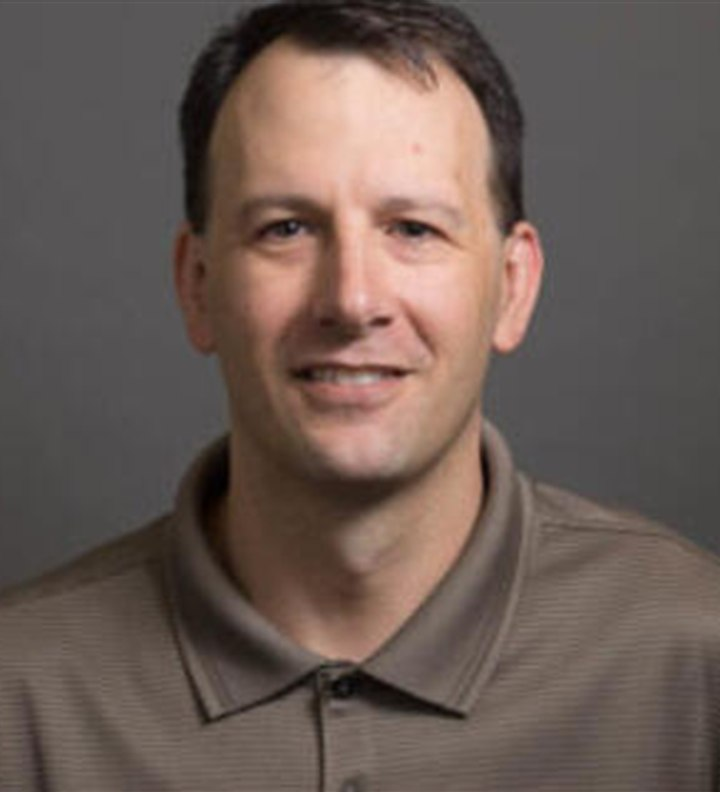
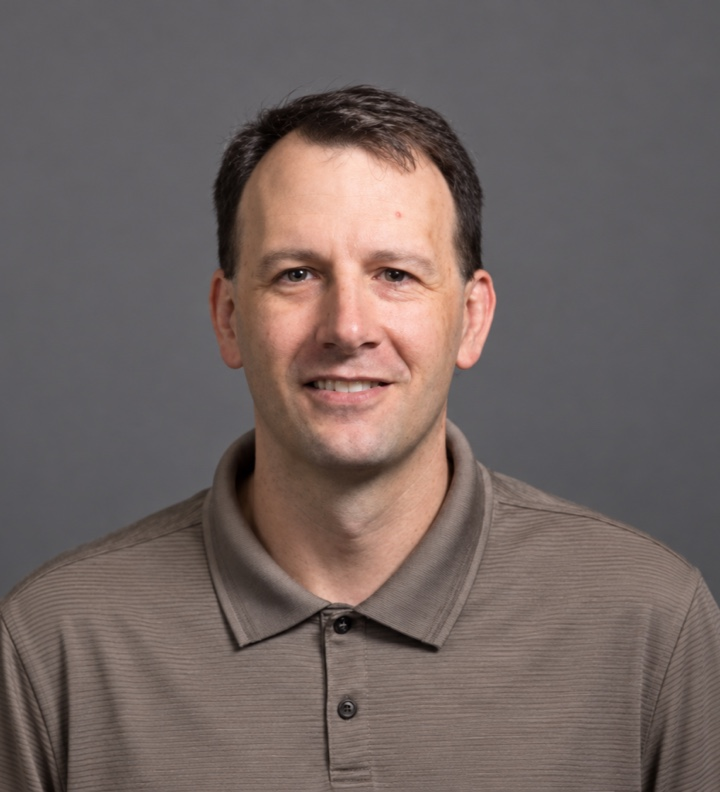
Update news section

diff --git a/assets/js/data.js b/assets/js/data.js
@@ -27,7 +27,7 @@ window.siteData = {
       role: "Faculty",
       title: "Associate Professor",
       interests: "Critical infrastructure modeling, GeoAI, risk, resilience and remote sensing",
-      image: "assets/images/people/oughton.jpg",
+      image: "assets/images/people/oughton-reframed-v3.jpg",
       url: "https://science.gmu.edu/directory/edward-oughton"
     },
     {
@@ -98,6 +98,13 @@ window.siteData = {
 
   publications: [
     {
+      year: "2026",
+      type: "Journal",
+      title: "Global vulnerability assessment of mobile telecommunications infrastructure to climate hazards using crowdsourced open data",
+      citation: "Oughton, E. J., Russell, T., Oh, J., Ballan, S., & Hall, J. W. Nature Communications.",
+      url: "https://doi.org/10.1038/s41467-026-76197-w"
+    },
+    {
       year: "2025",
       type: "Journal",
       title: "Emissions assessment of Low Earth Orbit (LEO) broadband megaconstellations: Starlink, OneWeb and Kuiper",
@@ -149,6 +156,38 @@ window.siteData = {
   ],
 
   news: [
+    {
+      type: "Media",
+      date: "September 2026",
+      title: "CNN features our research on solar storms and U.S. power grid risk",
+      summary: "CNN's interactive article covers findings from our new AGU Advances paper and includes a data tool that helps readers explore their potential exposure to power grid disruption from a major solar storm.",
+      url: "https://www.cnn.com/interactive/2026/07/weather/solar-storms-power-grid/",
+      linkLabel: "Explore the CNN feature"
+    },
+    {
+      type: "Media",
+      date: "September 2026",
+      title: "AGU Eos highlights our research on the economic costs of solar storms",
+      summary: "The Eos research spotlight explores findings from our recent AGU Advances paper, including the potential power outages and economic losses caused by severe geomagnetic storms in the United States.",
+      url: "https://eos.org/research-spotlights/the-economic-costs-of-solar-storms",
+      linkLabel: "Read spotlight"
+    },
+    {
+      type: "Publication",
+      date: "September 2026",
+      title: "New AGU Advances publication on the economic risks of extreme space weather",
+      summary: "Major Space Weather Risks Identified via Coupled Physics–Engineering–Economic Modeling estimates that a 250-year geomagnetic storm could cause $1.81 billion in daily U.S. economic losses.",
+      url: "https://doi.org/10.1029/2026AV002367",
+      linkLabel: "Read paper"
+    },
+    {
+      type: "Grant",
+      date: "August 2026",
+      title: "New $500K NSF award for AI-enabled space weather risk research",
+      summary: "This new project will develop open-source tools that translate uncertainty in space weather forecasts into actionable risk information for satellite operations, helping strengthen the resilience of space infrastructure.",
+      url: "https://www.nsf.gov/awardsearch/show-award?AWD_ID=2629145",
+      linkLabel: "See grant details"
+    },
     {
       type: "Grant",
       date: "August 2026",

diff --git a/index.html b/index.html
@@ -34,6 +34,7 @@
       <nav id="site-navigation" class="site-nav" aria-label="Primary navigation">
         <a href="#research">Research</a>
         <a href="#collaborations">Collaborations</a>
+        <a href="#news">Latest news</a>
         <a href="#people">People</a>
         <a href="#publications">Publications</a>
         <a href="join.html">Join Us</a>
@@ -97,6 +98,19 @@
       </div>
     </section>
 
+    <section id="news" class="section">
+      <div class="container">
+        <div class="section-heading">
+          <div>
+            <div class="section-kicker">News and achievements</div>
+            <h2>Latest from the group</h2>
+          </div>
+        </div>
+        <div class="news-grid" id="news-grid"></div>
+        <nav class="news-pagination" id="news-pagination" aria-label="News pages"></nav>
+      </div>
+    </section>
+
     <section id="people" class="section">
       <div class="container">
         <div class="section-heading">
@@ -123,18 +137,6 @@
       </div>
     </section>
 
-    <section id="news" class="section">
-      <div class="container">
-        <div class="section-heading">
-          <div>
-            <div class="section-kicker">News and achievements</div>
-            <h2>Latest from the group</h2>
-          </div>
-        </div>
-        <div class="news-grid" id="news-grid"></div>
-      </div>
-    </section>
-
     <section id="opportunities" class="section opportunity-section">
       <div class="container opportunity-card">
         <div>
@@ -158,7 +160,7 @@
         </div>
         <div class="contact-links">
           <span>eoughton [ at ] gmu [ dot ] edu</span>
-          <a href="https://github.com/geoai-earth-observation-research-group">GitHub organization</a>
+          <a href="https://github.com/GeoAI-and-Earth-Observation">GitHub organization</a>
           <a href="https://science.gmu.edu/academics/departments-units/geography-geoinformation-science">GMU GGS website</a>
           <a href="https://www.linkedin.com/in/edwardoughton">LinkedIn</a>
         </div>
@@ -169,7 +171,7 @@
   <footer class="site-footer">
     <div class="container footer-wrap">
       <p>© <span id="current-year"></span> GeoAI & Earth Observation Research Group, George Mason University.</p>
-      <p>This draft site is independently maintained by the research group.</p>
+      <p>This site is independently maintained by the research group.</p>
     </div>
   </footer>
 </body>

diff --git a/assets/js/main.js b/assets/js/main.js
@@ -64,8 +64,15 @@
     `).join("");
   };
 
-  const renderNews = () => {
-    document.querySelector("#news-grid").innerHTML = data.news.map(item => `
+  const NEWS_PAGE_SIZE = 6;
+
+  const renderNews = (requestedPage = 1) => {
+    const pageCount = Math.ceil(data.news.length / NEWS_PAGE_SIZE);
+    const page = Math.min(Math.max(requestedPage, 1), pageCount);
+    const startIndex = (page - 1) * NEWS_PAGE_SIZE;
+    const visibleNews = data.news.slice(startIndex, startIndex + NEWS_PAGE_SIZE);
+
+    document.querySelector("#news-grid").innerHTML = visibleNews.map(item => `
       <article class="news-card">
         <div class="news-meta">
           <span class="news-type">${item.type}</span>
@@ -77,6 +84,23 @@
         <a class="text-link" href="${item.url}">${item.linkLabel || "Read update"} <span aria-hidden="true">→</span></a>
       </article>
     `).join("");
+
+    const pagination = document.querySelector("#news-pagination");
+    pagination.hidden = pageCount <= 1;
+    pagination.innerHTML = Array.from({ length: pageCount }, (_, index) => {
+      const pageNumber = index + 1;
+      const isCurrent = pageNumber === page;
+      return `<button class="page-button${isCurrent ? " active" : ""}" type="button" data-page="${pageNumber}" aria-label="Show news page ${pageNumber}"${isCurrent ? ' aria-current="page"' : ""}>${pageNumber}</button>`;
+    }).join("");
+  };
+
+  const setupNewsPagination = () => {
+    document.querySelector("#news-pagination").addEventListener("click", event => {
+      const button = event.target.closest("button[data-page]");
+      if (!button) return;
+      renderNews(Number(button.dataset.page));
+      document.querySelector("#news").scrollIntoView({ behavior: "smooth", block: "start" });
+    });
   };
 
   const setupNavigation = () => {
@@ -101,7 +125,10 @@
   if (data && document.querySelector("#people-filters")) renderPeopleFilters();
   if (data && document.querySelector("#people-grid")) renderPeople();
   if (data && document.querySelector("#publication-list")) renderPublications();
-  if (data && document.querySelector("#news-grid")) renderNews();
+  if (data && document.querySelector("#news-grid")) {
+    renderNews();
+    setupNewsPagination();
+  }
   setupNavigation();
   const year = document.querySelector("#current-year");
   if (year) year.textContent = new Date().getFullYear();

diff --git a/join.html b/join.html
@@ -50,7 +50,7 @@
           <h2>Who should consider getting in touch?</h2>
         </div>
         <div class="join-copy">
-          <p>We are particularly interested in students who want to work at the intersection of geospatial science, computation, and real-world systems. Current research spans three broad areas.</p>
+          <p>We are particularly interested in students who want to work at the intersection of geospatial science, AI, and remote sensing.</p>
           <ol class="numbered-themes">
             <li><strong>Critical infrastructure modeling and simulation</strong> for energy, transportation, and telecommunications networks, including resilience, risk, and decision support.</li>
             <li><strong>Earth observation</strong> using optical imagery, Synthetic Aperture Radar (SAR), lidar, and multisensor remote sensing, with an emphasis on scalable geospatial analysis and GeoAI.</li>
@@ -77,7 +77,7 @@
             <li>Why you are specifically interested in this research group</li>
             <li>For PhD inquiries, the approximate semester or year you hope to begin</li>
           </ul>
-          <a class="button button-primary" href="mailto:eoughton@gmu.edu?subject=Prospective%20GeoAI%20Research%20Student">Email Edward Oughton</a>
+          <a class="button button-primary" href="mailto:eoughton@gmu.edu?subject=Prospective%20GeoAI%20Research%20Student">Email</a>
         </div>
       </div>
     </section>

diff --git a/assets/css/styles.css b/assets/css/styles.css
@@ -698,6 +698,35 @@ button, input, textarea, select { font: inherit; }
 
 .news-card .text-link { margin-top: auto; }
 
+.news-pagination {
+  display: flex;
+  justify-content: center;
+  gap: 9px;
+  margin-top: 32px;
+}
+
+.news-pagination[hidden] { display: none; }
+
+.page-button {
+  width: 40px;
+  height: 40px;
+  border: 1px solid var(--line);
+  border-radius: 50%;
+  color: var(--muted);
+  background: white;
+  font: inherit;
+  font-weight: 700;
+  cursor: pointer;
+}
+
+.page-button:hover,
+.page-button:focus-visible,
+.page-button.active {
+  color: white;
+  border-color: var(--mason-green);
+  background: var(--mason-green);
+}
+
 .opportunity-section {
   padding-top: 0;
 }
